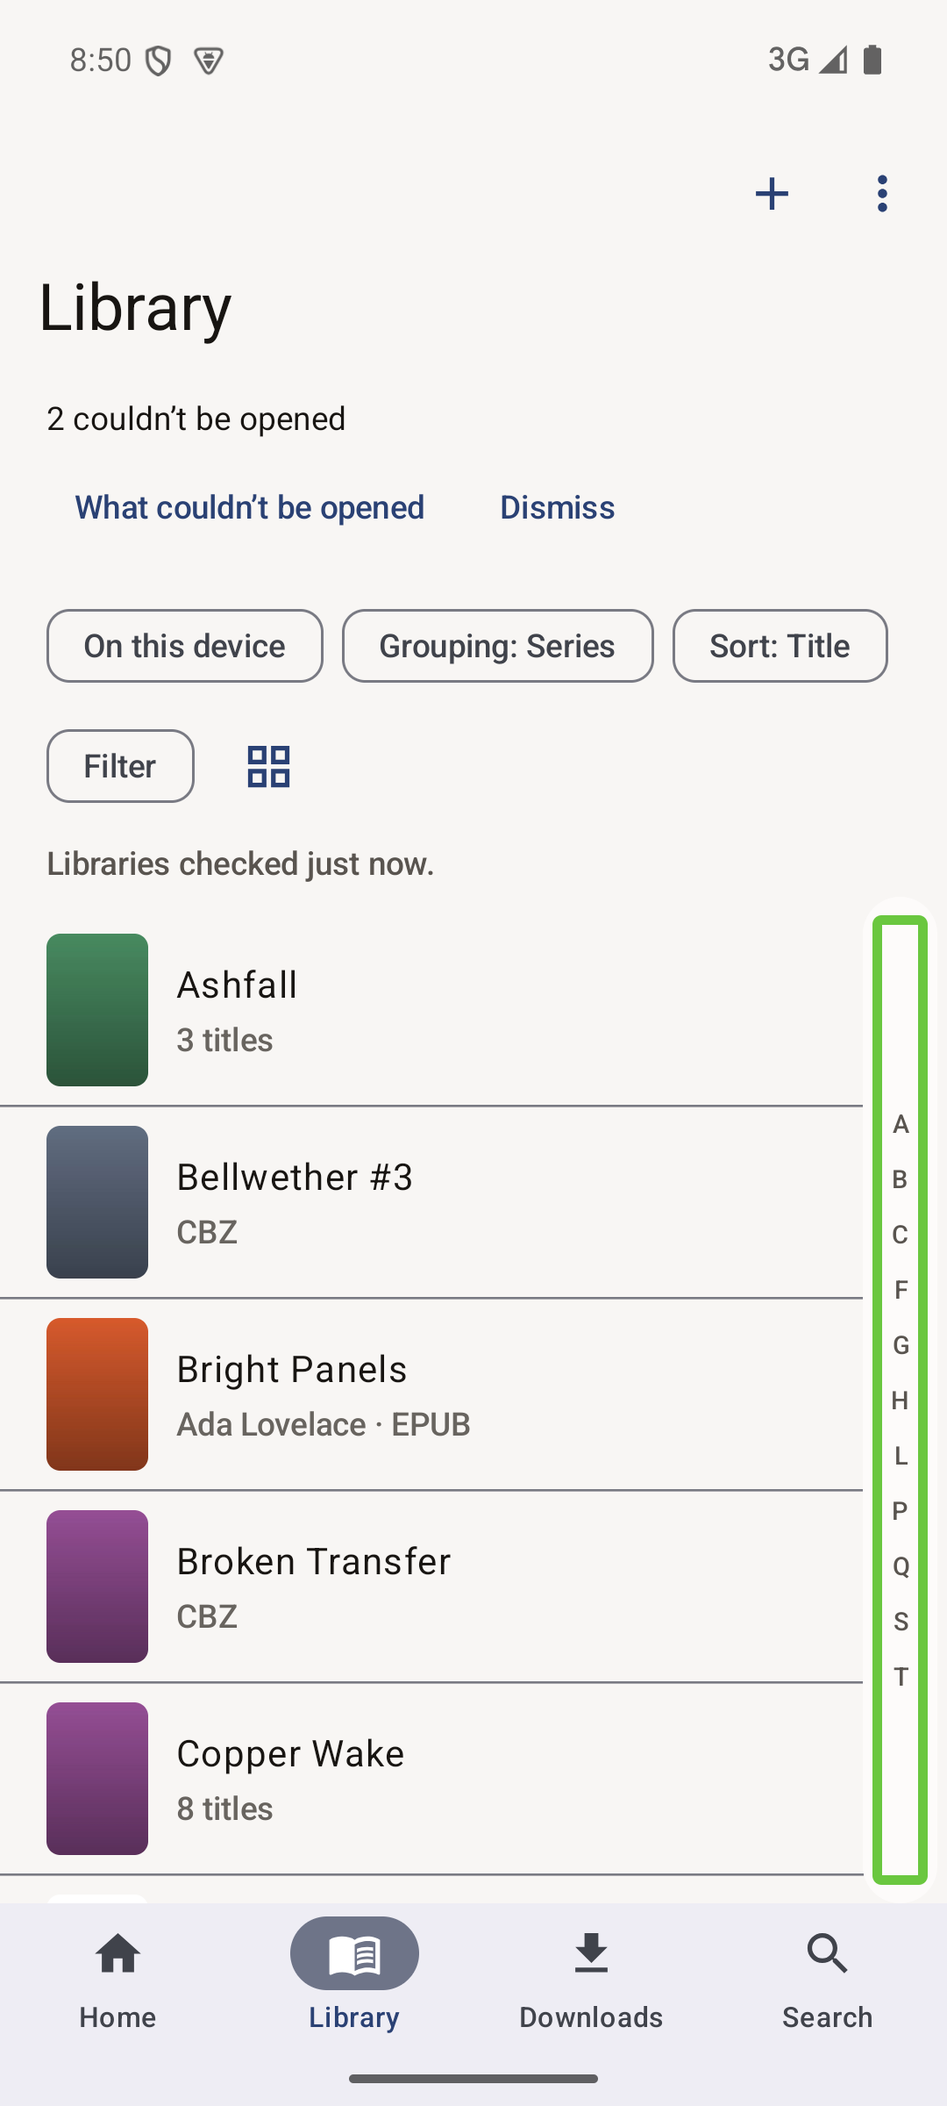
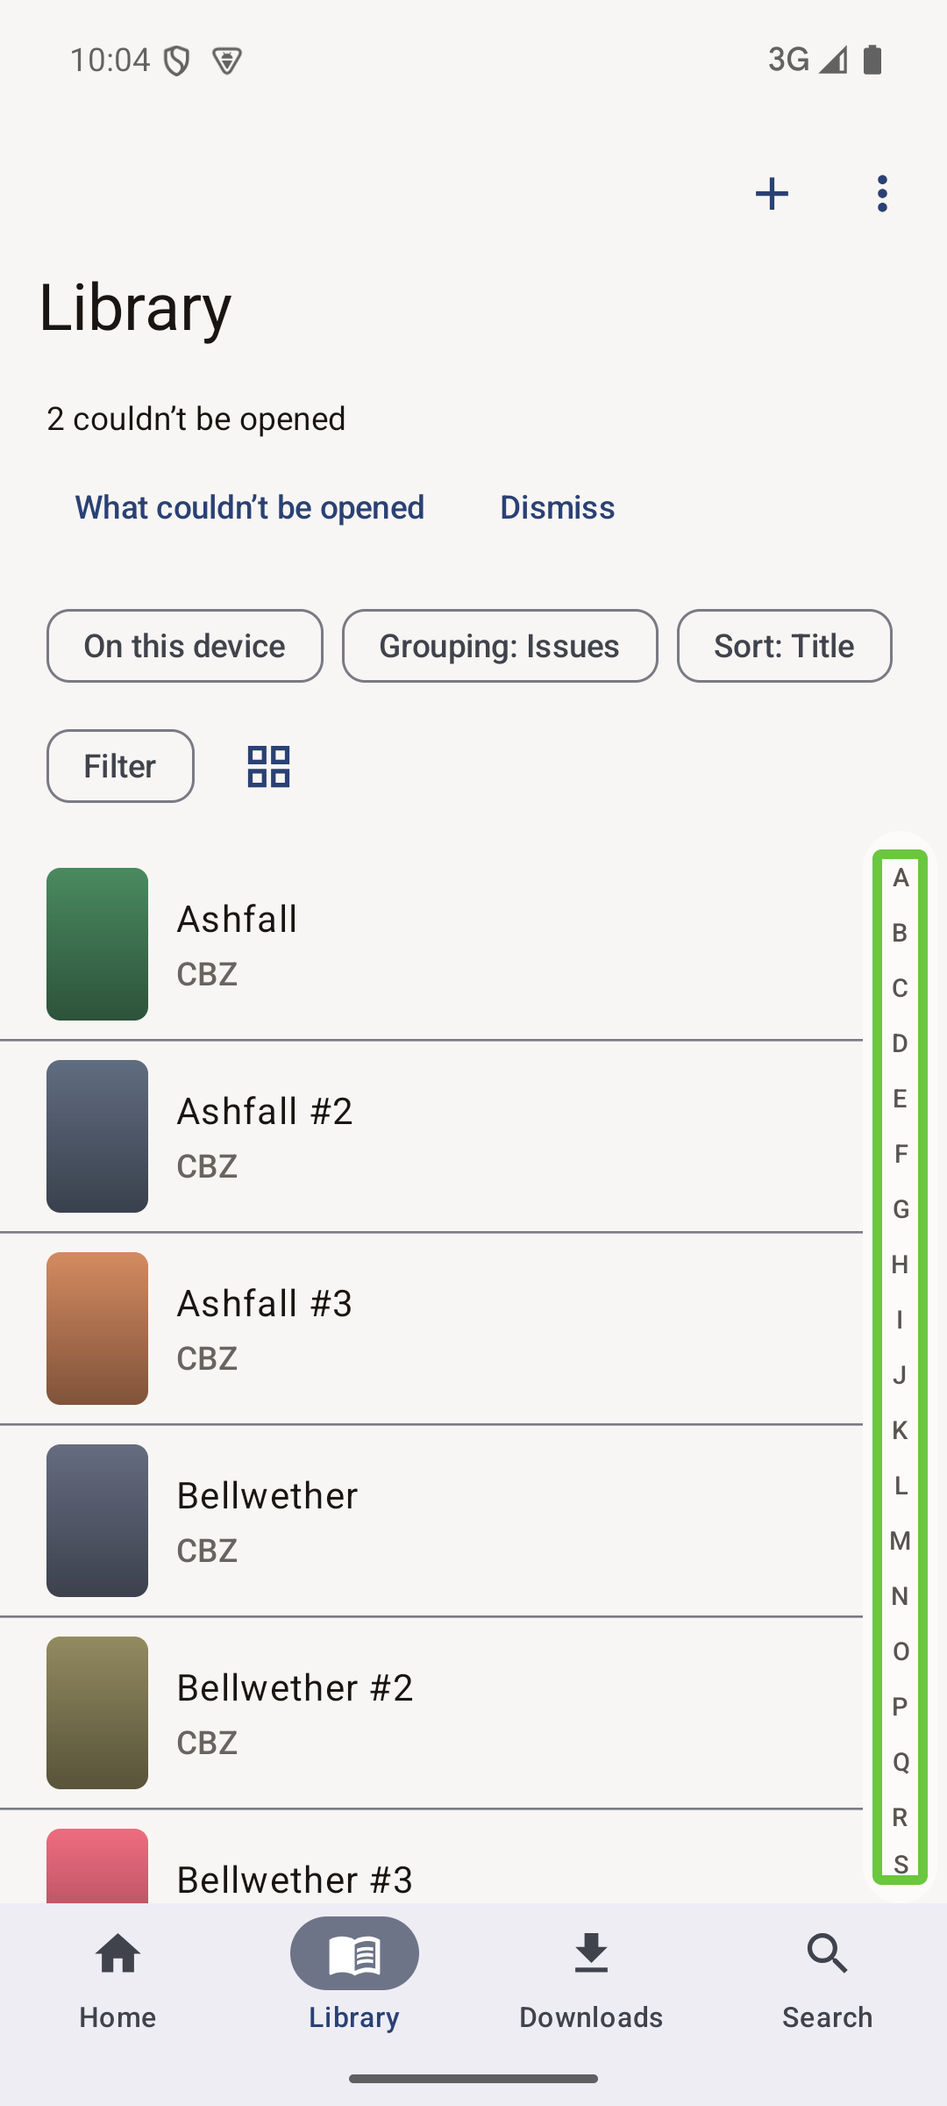
docs(docs): the long shelf sections, photographed at 218 publications
Seven Android frames on one shelf of 218 publications, which is `cache/library.json`'s
own count and not the file count on disk. Under Grouping: Issues the grid draws pinned
headings — *Ashfall* and *Bellwether* as full-span text nodes at the leading edge — at
text size 1.0 and at 2.0, light and dark. Every row of the table was read from a
`uiautomator` dump rather than from the picture.

This closes task 3.4 and item 9 of task 6.5 in `one-library-three-destinations`. Both
halves are answered by one capture: the Android sectioned shelf, and a shelf on record
at over 200 publications.

The first attempt at these frames, earlier the same day, is withdrawn and replaced. It
captured 29 publications and called them 220. The cause is now known and it was the
corpus generator, not the app.

Two findings the capture turned up, recorded and not acted on:
- Under Grouping: Series the same shelf draws no heading, because 218 publications
  collapse to 47 rows and `LibrarySections.kt:121` refuses a division averaging fewer
  than three covers per heading. Read from the source, not instrumented.
- The list layout draws no heading at any length. `CoverList` takes no sections.

diff --git a/docs/designs/screenshots/long-shelf-2026-09-11/README.md b/docs/designs/screenshots/long-shelf-2026-09-11/README.md
@@ -1,136 +1,107 @@
-# A shelf of 29, mistaken for a shelf of 220 — 2026-09-11
+# A sectioned shelf of 218 — 2026-09-11
 
-> **Read this first: the claim this directory was committed with was wrong, and
-> the frames are not what their filenames say.**
->
-> I pushed 220 valid CBZs into the managed folder, saw the file count come back as
-> 220, and captured the shelf as a 220-publication library. It was not one. The
-> app's own index, `cache/library.json`, held **29 publications** across ten
-> initials — `ABCFGHPQST` — which is exactly the set the alphabetical rail drew in
-> every frame. The corpus on disk spans twenty-four initials. I had the evidence
-> of the mismatch on screen and read the file count instead of the index.
->
-> So: these five frames are of a **29-publication** shelf. Whether a 220-publication
-> shelf sections is **not shown here and not established**.
->
-> This is the same mistake I had caught in someone else's work earlier the same
-> day — counting what is on disk rather than what the app holds — and I made it
-> next. The remaining notes below are kept because the measurements in them are
-> real; the conclusion they were written to support is withdrawn.
+The long-shelf frames `one-library-three-destinations` task 6.5 item 9 asks for, and
+the answer to the question the first attempt at them could not answer.
 
-## What is actually established
+**The first attempt is withdrawn and its frames are replaced.** It captured a shelf
+of 29 publications and labelled it 220, because it read the file count on disk
+instead of the app's own index. The cause of that 29 is now known, it was a defect
+in the corpus generator, and the app was never at fault. The section below records
+it, because the same class of defect can return.
 
-- **29 publications indexed from 220 files on disk**, before anything was cleared.
-  The 220 files were read: *Ashfall* showed *3 titles* where the same corpus at 140
-  showed 2, and `Ashfall 3.cbz` exists only at 220.
+## The frames
 
-- **The 29 are not explained by base-versus-filler, and my first note here said
-  they were.** I wrote that every base publication was indexed and every `--count`
-  filler absent. That is false: `FILLER_SOLO` in `scripts/corpus.mjs` begins
-  *Ashfall, Bellwether, Cinderpath* and `FILLER_SERIES` includes *Copper Wake* — so
-  *Ashfall*, *Bellwether #3* and *Copper Wake #1* to *#6* are all filler, and all
-  indexed. I read the indexed titles, recognised some, and asserted a rule instead
-  of checking the script.
+Taken on `emulator-5554` (1080 × 2400, Android 16) with
+`node scripts/capture-android.mjs`. The shelf holds **218 publications** and is
+sorted by title in every frame.
 
-  What can be said: **29 of 220, and the subset has no explanation here.** It is
-  not alphabetical either — *The Long Field*, *Tidal Reach* and *Tidal Voices* are
-  all in it while *Cinderpath* and *Dovetail* are not.
-- The missing files are not malformed. `unzip -l` shows `Dovetail.cbz` (absent from
-  the index) and `Ashfall.cbz` (present in it) are both two-page CBZs written by the
-  same `zip(at(...), pages(2, index))` call, so whatever separates them is not the
-  file.
-- **After `adb shell pm clear`, the app indexes 0 of the same 220 files** and reads
-  *Nothing here yet*. `pm clear` also deletes the external files directory, so the
-  corpus has to be re-pushed first — which it was, and the count stayed 0.
-  So the managed folder is not scanned on a fresh install: something `pm clear`
-  removes is what tells the app to scan it.
-- That last fact **confounds** the first. The 29 came from a registration and a
-  scan journal that predated this session, so "220 files yielded 29 publications"
-  is not yet a statement about one scan of 220 files.
+| Frame | Grouping | Layout | Theme | Text size | Headings |
+| --- | --- | --- | --- | --- | --- |
+| `android-issues-sectioned-light.png` | issues | grid | light | 1.0 | *Ashfall*, *Bellwether* |
+| `android-issues-sectioned-dark.png` | issues | grid | dark | 1.0 | *Ashfall*, *Bellwether* |
+| `android-issues-sectioned-large-light.png` | issues | grid | light | 2.0 | *Ashfall* |
+| `android-issues-sectioned-large-dark.png` | issues | grid | dark | 2.0 | *Ashfall* |
+| `android-series-grouped-light.png` | series | grid | light | 1.0 | none |
+| `android-series-grouped-dark.png` | series | grid | dark | 1.0 | none |
+| `android-long-list-light.png` | issues | list | light | 1.0 | none |
 
-## What the next person should do
+Each row was read from a `uiautomator` dump, not from the picture. A heading is a
+full-span text node at the leading edge — *Ashfall* measures `x 53–964` on a
+1080 px screen — and the alphabetical index is the column of single letters at
+`x ≈ 1017`, which reads `A` to `R` in every frame. At text size 2.0 the grid drops
+from three covers across to two and the heading stays pinned. The rail's letters
+grow with the text size on Android, so the column shows `A` to `M` instead of `A`
+to `S` — fewer letters in view, each one a larger target. iOS caps the rail's text
+size instead (`LibraryRail.swift:176`, `.dynamicTypeSize(...DynamicTypeSize.large)`),
+so the two platforms differ here and neither is photographed against the other.
 
-Establish the scan's behaviour before trusting any long-shelf capture:
+The green outline around the rail in every frame is **TalkBack's accessibility
+focus**, which is enabled on this emulator. It is not a border the app draws. The
+focus rests on the whole rail rather than on one letter, which is worth knowing
+before anyone reads the ring as a design element.
 
-1. Re-register the managed folder on a cleared app — through *Add books*, since
-   `pm clear` removes whatever registration drives the scan.
-2. Count `cache/library.json`, not the files on disk. That is the only number that
-   says what the shelf holds.
-3. Only then ask whether a long shelf sections.
+## What the frames establish
 
-`LibrarySections.divide` remains correct and covered by eight passing cases in
-`LibrarySectionsTest`; nothing here casts doubt on the pure function.
+1. **A long shelf sections.** Under *Grouping: Issues* the grid draws a pinned
+   heading per series, beside the A–Z rail. This is the frame item 9 asks for and
+   it had never been taken.
+2. **Under *Grouping: Series* the same shelf draws no heading.** A series is one
+   cell in that grouping, so 218 publications collapse to 47 rows and a heading
+   would head about one cover each. `LibrarySections.kt:121` refuses a division
+   that averages fewer than three covers per heading, and its comment gives the
+   reason: a tall column of announcements reads worse than the wall it replaced.
+   *Read from the source, not instrumented.* The measurement is only that the
+   headings are absent.
+3. **The list layout draws no heading at 218 either.** `CoverList` takes no
+   sections, and says so at its `rail` parameter: the list "draws one item per row
+   and opens no headings while the index is offered". Whether `library-browsing`
+   means its division to reach the list is a question for that spec, and this page
+   does not answer it.
+4. **220 files on disk, 218 publications indexed.** The two missing files are the
+   two the shelf refuses out loud. The notice reads *2 couldn't be opened*, and
+   *What couldn't be opened* names them: `Locked Vault.cbz`, "the archive is
+   password protected", and `Sealed Archive.cb7`, "CB7 is not a format StoryArc
+   reads". So the index is complete, and the file count was never the shelf size.
 
-**A note on how this page was written.** It carries three corrections, each of a
-claim made before it was checked: the shelf size, the base-versus-filler rule, and
-the sectioning conclusion that rested on both. The measurements in it are real and
-were re-run; the explanations were not, until they were asked for. `LibraryScanning`
-speaks of "picking up where an interrupted scan of it stopped" and of a journal,
-which is a lead and is left as one rather than turned into a fourth claim.
+## The defect that produced the shelf of 29
 
-## The original notes, kept for their measurements
+`scripts/corpus.mjs` built filler publications with `pages(2, index)`, and `pages`
+used its second argument as a **palette index**. The palette holds six colours, so
+the filler wrapped onto the same six colours, and a two-page comic built from them is
+one of a small set of byte-identical files.
 
+Measured at `--count 220`, with the fix reverted:
 
+| | files | distinct contents | shared groups |
+| --- | --- | --- | --- |
+| before | 226 | 37 | 12, six of them 28 files each |
+| after | 226 | 226 | 0 |
 
-A 220-publication library on a `storyarc-ci` emulator (`emulator-5554`,
-1080 × 2400, Android 16), built with `node scripts/corpus.mjs <dir> --count 220`
-and pushed to `/sdcard/Android/data/com.mecedric.storyarc.debug/files`, the folder
-`LibraryViewModel.managedFolder` documents as what an emulator scans without a
-picker.
+Of the 209 CBZ files, only **20** held distinct content before the fix.
 
-Taken for `one-library-three-destinations` task 6.5, item 9: *an Android
-sectioned shelf, and on either platform a shelf on record as holding at least 200
-publications.*
+ADR-0006 makes a publication's identity a **content digest**, so the app read those
+identical files as one publication each time and was right to. A corpus asked for
+220 publications delivered a few dozen, and every conclusion drawn from the shelf
+size was a conclusion about the generator.
 
-## The shelf is on record at 220. It is not sectioned.
+The fix gives each filler publication its own two bytes of colour shift. The
+invariant is now guarded: `node scripts/corpus.mjs --self-test` builds a
+`--count 60` corpus and fails unless every file in it is its own content.
 
-| Frame | Grouping | Theme |
-| --- | --- | --- |
-| `android-sectioned-light.png` | series | light |
-| `android-sectioned-dark.png` | series | dark |
-| `android-sectioned-issues-light.png` | issues | light |
-| `android-sectioned-issues-dark.png` | issues | dark |
-| `android-long-list-light.png` | series, **list layout** | light |
-
-`library-browsing` asks a long shelf to be "divided by series where a publication
-declares one, and otherwise by the active sort key".
-`LibrarySections.THRESHOLD` is **12**. This shelf holds 220 and is sorted by
-title, and **no frame carries a heading** — in the grid or in the list.
-
-The single letters down the right edge of every frame are the alphabetical
-index, not headings. Their accessibility labels read *Jump to A*, *Jump to B* and
-so on, and they sit at x ≈ 1017–1037, hard against the trailing edge. A dump of
-the whole tree found nothing else that could be a heading.
-
-## What is established, and what is not
-
-**Established.** `LibrarySections.divide` is correct and covered.
-`LibrarySectionsTest` holds eight cases including *a series the shelf holds more
-than one of becomes a heading*, *sections are contiguous runs, so the sort
-survives them*, and *a heading is the initial of the sort key*. All pass. So this
-is not the pure function.
-
-**Established.** The shelf really does hold 220. *Ashfall* reads *3 titles* and
-*Copper Wake* reads *8 titles*, where the same corpus at 140 read 2 and 4.
-
-**Not established, and not guessed at here.** Which part of the wiring drops the
-sections. `LibraryScreen` computes
-`long = groups.isEmpty() && shelved.size > LibrarySections.THRESHOLD` and then
-`divide(shelved, query.sort, other, locale)`, and `CoverGrid` draws a
-`stickyHeader` per section when `groups.isEmpty() && sections.isNotEmpty()`. Every
-one of those reads right. Something between them yields an empty list and reading
-the source has not said which.
-
-## The recipe, so the next person starts where this stopped
+## Reproducing this
 
 ```bash
 node scripts/corpus.mjs /tmp/corpus220 --count 220
 adb -s emulator-5554 push /tmp/corpus220/. \
   /sdcard/Android/data/com.mecedric.storyarc.debug/files/
-node scripts/capture-android.mjs "Library > series with index" --out shot.png
-adb -s emulator-5554 shell uiautomator dump /sdcard/ui.xml   # then read it
+# The index caches a row per path, so a rescan over unchanged paths keeps the old
+# rows. Clear it before measuring a corpus that was rebuilt in place.
+adb -s emulator-5554 shell run-as com.mecedric.storyarc.debug \
+  rm -f /data/data/com.mecedric.storyarc.debug/cache/library.json
+# Then pull to refresh on the shelf. A rescan needs no folder picker: ScanTargets.of
+# always walks the managed folder.
+node scripts/capture-android.mjs "Library > issues with index" --out shot.png
 ```
 
-The fastest next step is a Robolectric test over `LibraryScreen` at 220
-publications asserting one `stickyHeader`, because that is the one thing between
-the tested function and the drawn shelf that nothing asserts.
+Count `cache/library.json`, never the files on disk. That is the only number that
+says what the shelf holds.

diff --git a/docs/openspec/changes/one-library-three-destinations/tasks.md b/docs/openspec/changes/one-library-three-destinations/tasks.md
@@ -1157,7 +1157,7 @@ kicker is series-or-publisher), and is its own only tap target. It is 4:5 at up 
       least one publication attributed to a source that is **down** and not downloaded, which
       the corpus (`origin: EMBEDDED`, no source) cannot produce — the same obstacle 3.2's
       owed frame hits, and the same two-catalogue setup answers both.
-- [~] **3.4** Section headings in a long library, by series where declared and by
+- [x] **3.4** Section headings in a long library, by series where declared and by
       the sort key otherwise. Screenshot: a library of at least 200 publications.
 
       **The code is done and genuinely mirrored on both platforms. The capture is
@@ -1237,12 +1237,34 @@ kicker is series-or-publisher), and is its own only tap target. It is 4:5 at up 
       publication added to the seventeen without it moving fails here rather than leaving
       every filled corpus one short.
 
-      **What is still owed is the two frames**, and neither has a blocker any more:
-      - Android, a sectioned shelf, light and dark, at default and largest text size (4).
-        Reachable on the 17-publication corpus today, as the note above says.
-      - Either platform on a corpus built with `--count 200`, with the count written into the
-        capture directory's README — the count is the whole of what the clause asks and a
-        long-looking shelf does not state it.
+      **Both frames are taken, 2026-09-11, in
+      `docs/designs/screenshots/long-shelf-2026-09-11/`.** Seven Android frames on one
+      shelf of **218 publications**, and the count is `cache/library.json`'s own, not the
+      file count on disk:
+      - `android-issues-sectioned-light.png` and `-dark.png`, at text size 1.0, and
+        `android-issues-sectioned-large-light.png` and `-dark.png` at 2.0 — the four this
+        task asks for. Each carries pinned headings, read from a `uiautomator` dump rather
+        than from the picture: *Ashfall* and *Bellwether* as full-span text nodes at the
+        leading edge, beside the A–Z rail.
+      - The same shelf answers the 200-publication clause, so one capture closes both.
+
+      **The first attempt at this frame, on the same day, was withdrawn and its cause is
+      now known.** It captured 29 publications and called them 220, because it read the
+      file count instead of the index. The 29 was a corpus defect: `pages(2, index)` passed
+      the filler index as a *palette* index, the palette holds six colours, and at
+      `--count 220` the generator wrote 226 files holding **37** distinct contents. A
+      publication's identity is a content digest (ADR-0006), so the app deduplicated them
+      and was right to. Fixed in `scripts/corpus.mjs`, and guarded: `--self-test` now
+      builds a `--count 60` corpus and fails unless every file in it is its own content.
+
+      **Two findings this capture turned up, neither in scope here.**
+      - Under *Grouping: Series* the same 218-publication shelf draws no heading. 218
+        publications collapse to 47 series rows, and `LibrarySections.kt:121` refuses a
+        division averaging fewer than three covers per heading. That reads as the rule
+        working; it is read from the source, not instrumented.
+      - The **list layout draws no heading at all**, at any length. `CoverList` takes no
+        sections and says so at its `rail` parameter. Whether `library-browsing` means its
+        division to reach the list is a question for that spec.
 - [x] **3.5** Wire the iOS views that are already written, translated and
       unreachable — recent searches, the cached notice, the scope control in its
       new availability form, and file import from the empty state. No new strings.
@@ -1696,8 +1718,9 @@ kicker is series-or-publisher), and is its own only tap target. It is 4:5 at up 
          sixteen iPad PNGs in `after-2026-08-30/` is 2064 × 2752, portrait.
       2. **A grid with all four combinations of progress and availability**, either
          platform — task 3.3.
-      3. **An Android sectioned shelf**, and on either platform a shelf on record as
-         holding at least 200 publications — task 3.4.
+      3. ~~**An Android sectioned shelf**, and on either platform a shelf on record as
+         holding at least 200 publications — task 3.4.~~ Taken 2026-09-11 at 218
+         publications, `docs/designs/screenshots/long-shelf-2026-09-11/`.
       4. **The filter sheet in its by-library form**, either platform — task 3.2.
       5. **iPad Pro portrait, landscape and Split View** for the sidebar and the
          capped settings measure — task 4.1.
@@ -1723,7 +1746,7 @@ kicker is series-or-publisher), and is its own only tap target. It is 4:5 at up 
       | 6 | Pin to Home / Unpin from Home in a shelf's menu (8), Home with one pinned collection **and** one pinned list (8), one per platform after unpinning (2) | 2.1 | a collection and a reading list, both non-empty |
       | 7 | The filter sheet in its **by-library** form (4) + one with a filter applied (2) + *Clear filters* offered while narrowed (2) | 3.2 | **two OPDS catalogues that attribute publications** — the 17-item corpus attributes none |
       | 8 | A grid with all four combinations of progress and availability (4) | 3.3 | needs one publication on a source that is **down** and not downloaded — same obstacle as 7, same setup answers both |
-      | 9 | An Android sectioned shelf (4); and either platform on record at **200+** publications | 3.4 | **Still open, and my first attempt at it is withdrawn.** I pushed 220 valid CBZs, read the file count back as 220, and captured five frames as a 220-publication shelf. The app's own index held **29** publications across ten initials — exactly the set the rail drew in every frame, while the corpus spans twenty-four. The frames are of a 29-publication shelf and are labelled so in `docs/designs/screenshots/long-shelf-2026-09-11/README.md`. Whether a long shelf sections is **not** established by them. What the attempt did establish: every `--count` filler publication is missing from the index though the files are valid two-page CBZs; and after `pm clear` the app indexes 0 of the same 220, so the managed folder is not scanned without a registration that `pm clear` removes — which confounds the 29 and is the thing to settle first. Count `cache/library.json`, never the files on disk. |
+      | 9 | An Android sectioned shelf (4); and either platform on record at **200+** publications | 3.4 | **Taken, 2026-09-11**, in `docs/designs/screenshots/long-shelf-2026-09-11/` — seven frames on one shelf of **218 publications**, counted from `cache/library.json`. Four are the ones this row asks for: issues grouping, grid, light and dark, at text size 1.0 and 2.0, each with pinned headings read from a `uiautomator` dump. The same shelf answers the 200-publication clause. My first attempt was withdrawn: it captured 29 publications and called them 220, because `scripts/corpus.mjs` passed a filler index as a palette index and wrote 226 files holding 37 distinct contents, which ADR-0006 identity correctly deduplicated. The generator is fixed and its self-test now guards the invariant. Count `cache/library.json`, never the files on disk. |
       | 10 | iPad Pro portrait and landscape with the sidebar (4), iPad in **Split View** (1), **Settings on a 13-inch iPad** (1) | 4.1 | the settings frame is the one that says whether 720 is right |
       | 11 | An Android **foldable at half-open**, seam and pane boundary in one frame (1) | 4.2 | a foldable AVD at its half-open posture |
       | 12 | **iOS Home with the shelf filtered to one library**, showing Keep reading still present (2, light and dark) | 2.1 / 3.2 | new, and owed by the fix below |
